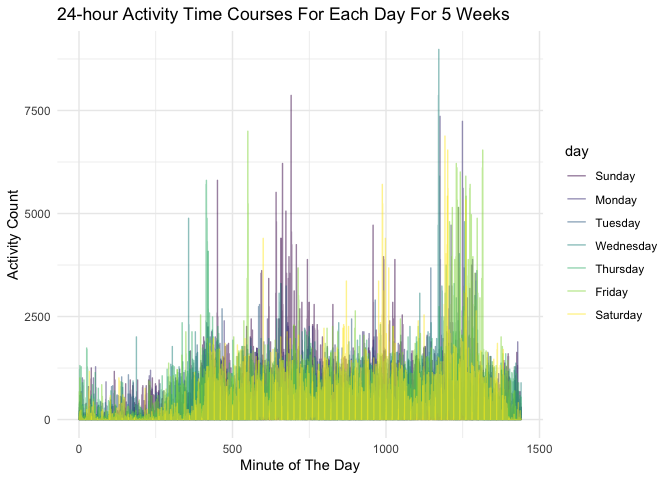
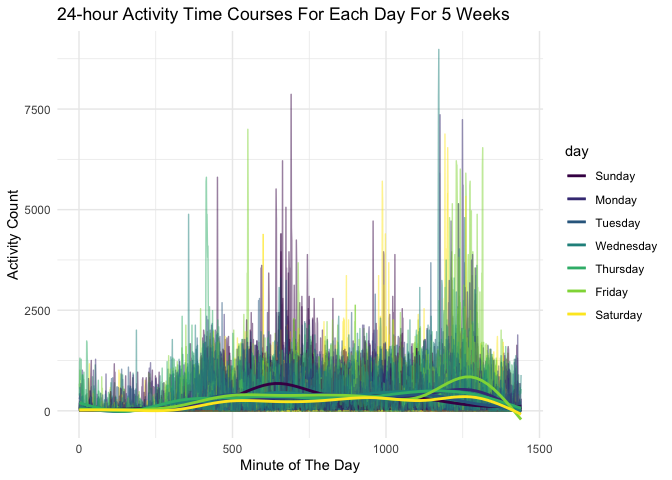
Final version of HW3.

diff --git a/p8105_hw3_yc4018.md b/p8105_hw3_yc4018.md
@@ -20,7 +20,8 @@ scale_colour_discrete = scale_colour_viridis_d
 scale_fill_discrete = scale_fill_viridis_d
 ```
 
-**Problem 1** load the `instacart` data.
+**Problem 1**  
+load the `instacart` data.
 
 ``` r
 data("instacart")
@@ -52,7 +53,7 @@ knitr::kable(aisle_obs[0:10,])
 | soy lactosefree               |  26240 |
 | bread                         |  23635 |
 
--   There are 134in the dataset. Since 150609 is the largest
+-   There are 134 aisles in the dataset. Since 150609 is the largest
     observations of aisle, fresh vegetables is the aisle that the most
     items ordered from.
 
@@ -74,6 +75,10 @@ aisle_obs %>%
 ```
 
 ![](p8105_hw3_yc4018_files/figure-gfm/unnamed-chunk-4-1.png)<!-- -->
+
+-   Based on the above scatter plot, we can see that butter is the aisle
+    that has the lowest number of items ordered, and fresh vegetables is
+    the aisle that the most items ordered from.
 
 3.  Below table shows the 3 most popular products in each of the aisles
     of “baking ingredients”, “dog food care”, and “packaged vegetables
@@ -104,6 +109,15 @@ instacart %>%
 | packaged vegetables fruits | Organic Raspberries                           |     5546 |             2 |
 | packaged vegetables fruits | Organic Blueberries                           |     4966 |             3 |
 
+-   Based on the table, we can see that for the aisle of “baking
+    ingredients”, the 3 most popular products are Light Brown Sugar,
+    Pure Baking Soda, and Cane Sugar. For the aisle of “dog food care”,
+    the 3 most popular products are Snack Sticks Chicken & Rice Recipe
+    Dog Treats, Organix Chicken & Brown Rice Recipe, and Small Dog
+    Biscuits. And for the aisle of “packaged vegetables fruits”, the 3
+    most popular products are Organic Baby Spinach, Organic Raspberries,
+    and Organic Blueberries
+
 4.  Below table shows the mean hour of the day at which Pink Lady Apples
     and Coffee Ice Cream are ordered on each day of the week.
 
@@ -112,37 +126,40 @@ instacart %>%
   filter(product_name %in% c("Pink Lady Apples", "Coffee Ice Cream")) %>% 
   group_by(product_name, order_dow) %>% 
   summarize(mean_hour = mean(order_hour_of_day, na.rm = TRUE)) %>% 
+  mutate(
+    order_dow = lubridate::wday(order_dow + 1, label = TRUE, abbr = FALSE)) %>% 
   pivot_wider(
     names_from = "order_dow",
     values_from = "mean_hour"
   ) %>% 
-  knitr::kable()
+  knitr::kable(digits = 2)
 ```
 
-| product\_name    |        0 |        1 |        2 |        3 |        4 |        5 |        6 |
-|:-----------------|---------:|---------:|---------:|---------:|---------:|---------:|---------:|
-| Coffee Ice Cream | 13.77419 | 14.31579 | 15.38095 | 15.31818 | 15.21739 | 12.26316 | 13.83333 |
-| Pink Lady Apples | 13.44118 | 11.36000 | 11.70213 | 14.25000 | 11.55172 | 12.78431 | 11.93750 |
+| product\_name    | Sunday | Monday | Tuesday | Wednesday | Thursday | Friday | Saturday |
+|:-----------------|-------:|-------:|--------:|----------:|---------:|-------:|---------:|
+| Coffee Ice Cream |  13.77 |  14.32 |   15.38 |     15.32 |    15.22 |  12.26 |    13.83 |
+| Pink Lady Apples |  13.44 |  11.36 |   11.70 |     14.25 |    11.55 |  12.78 |    11.94 |
 
-5.  **Dataset Interpretation: ** write a short description of the
-    dataset, noting the size and structure of the data, describing some
-    key variables, and giving illstrative examples of observations.
+5.  Dataset Interpretation:
 
--   The instacart dataset contains 1384617 observations of 15 variables
+-   The instacart dataset contains 1384617 observations of 15 variables,
     and each row in the dataset is a product from an order, which helps
     to examine the trends in online grocery purchasing. The size of this
     dataset is (1384617, 15). I think the key variables are `aisle`;
-    `department`; `product_name`; `add_to_cart_order`, which represents
-    the order in which each product was added to cart; `reordered`,
-    which shows if this product has been ordered by this user in the
-    past; `order_dow`, which shows the day of the week on which the
-    order was placed; `order_hour_of_day`,which represents the hour of
-    the day on which the order was placed; and `days_since_prior_order`,
-    which indicates the days since the last order.
+    `department`; `product_name`; `user_id`; `add_to_cart_order`, which
+    represents the order in which each product was added to cart;
+    `reordered`, which shows if this product has been ordered by this
+    user in the past; `order_dow`, which shows the day of the week on
+    which the order was placed; `order_hour_of_day`, which represents
+    the hour of the day on which the order was placed; and
+    `days_since_prior_order`, which indicates the days since the last
+    order. For example, the customer with a user id of 112108 ordered
+    Bulgarian Yogurt 9 days after he/she prior order.
 
 ------------------------------------------------------------------------
 
-**Problem 2** load, clean, and tidy the BRFSS data.
+**Problem 2**  
+load, clean, and tidy the BRFSS data.
 
 ``` r
 data("brfss_smart2010")
@@ -155,7 +172,16 @@ brfss_df =
   select(-locationabbr) %>% 
   filter(response %in% c("Excellent", "Very good", "Good", "Fair", "Poor")) %>%
   mutate(response = factor(response, levels = c("Poor", "Fair", "Good", "Very good", "Excellent")))
+
+knitr::kable(brfss_df[0:4,])
 ```
+
+| year | state | location         | class         | topic          | question                    | response  | sample\_size | data\_value | confidence\_limit\_low | confidence\_limit\_high | display\_order | data\_value\_unit | data\_value\_type | data\_value\_footnote\_symbol | data\_value\_footnote | data\_source | class\_id | topic\_id | location\_id | question\_id | respid  | geo\_location           |
+|-----:|:------|:-----------------|:--------------|:---------------|:----------------------------|:----------|-------------:|------------:|-----------------------:|------------------------:|---------------:|:------------------|:------------------|:------------------------------|:----------------------|:-------------|:----------|:----------|:-------------|:-------------|:--------|:------------------------|
+| 2010 | AL    | Jefferson County | Health Status | Overall Health | How is your general health? | Excellent |           94 |        18.9 |                   14.1 |                    23.6 |              1 | %                 | Crude Prevalence  | NA                            | NA                    | BRFSS        | CLASS08   | Topic41   | NA           | GENHLTH      | RESP056 | (33.518601, -86.814688) |
+| 2010 | AL    | Jefferson County | Health Status | Overall Health | How is your general health? | Very good |          148 |        30.0 |                   24.9 |                    35.0 |              2 | %                 | Crude Prevalence  | NA                            | NA                    | BRFSS        | CLASS08   | Topic41   | NA           | GENHLTH      | RESP057 | (33.518601, -86.814688) |
+| 2010 | AL    | Jefferson County | Health Status | Overall Health | How is your general health? | Good      |          208 |        33.1 |                   28.2 |                    38.0 |              3 | %                 | Crude Prevalence  | NA                            | NA                    | BRFSS        | CLASS08   | Topic41   | NA           | GENHLTH      | RESP058 | (33.518601, -86.814688) |
+| 2010 | AL    | Jefferson County | Health Status | Overall Health | How is your general health? | Fair      |          107 |        12.5 |                    9.5 |                    15.4 |              4 | %                 | Crude Prevalence  | NA                            | NA                    | BRFSS        | CLASS08   | Topic41   | NA           | GENHLTH      | RESP059 | (33.518601, -86.814688) |
 
 1.  In 2002, which states were observed at 7 or more locations? What
     about in 2010?
@@ -280,16 +306,24 @@ brfss_df %>%
   ) 
 ```
 
-![](p8105_hw3_yc4018_files/figure-gfm/unnamed-chunk-11-1.png)<!-- --> -
-\*\*interpretation!
+![](p8105_hw3_yc4018_files/figure-gfm/unnamed-chunk-11-1.png)<!-- -->
 
-wide range 4. **Dataset Interpretation:** - After loading, cleaning, and
-tidying the BRFSS data, I have a resulting dataset named `brfss_df`
-dataset. The `brfss_df` dataset is from the Behavioral Risk Factors
-Surveillance System for Selected Metropolitan Area Risk Trends (SMART)
-for 2002-2010, which contains 10625 observations of 23 variables. The
-dimension of this dataset is (10625, 23). I think the key variables are:
-year, state, location, class, topic, question, and response.
+-   Based on the above boxplot, we can see that in both 2006 and 2010,
+    the majority level of response from people in NY State are “Good”
+    and “Very good”, and only a few people’s responses are at the level
+    of “Poor”. From 2006 to 2010, the mean or the range of data value in
+    each level of response has increased, for example, more people in NY
+    State respond to the question at the level of “Very good”.
+
+4.  Dataset Interpretation:
+
+-   After loading, cleaning, and tidying the BRFSS data, I have a
+    resulting dataset named `brfss_df` dataset. The `brfss_df` dataset
+    is from the Behavioral Risk Factors Surveillance System for Selected
+    Metropolitan Area Risk Trends (SMART) for 2002-2010, which contains
+    10625 observations of 23 variables. The dimension of this dataset is
+    (10625, 23). I think the key variables are: year, state, location,
+    class, topic, question, and response.
 
 ------------------------------------------------------------------------
 
@@ -316,18 +350,27 @@ accel_df =
     day = factor(day, levels = c("Sunday", "Monday", "Tuesday", "Wednesday", "Thursday", "Friday", "Saturday")),
     ) %>% 
   relocate(week, day_id, day, type_of_day)
+
+knitr::kable(accel_df[0:4,])
 ```
+
+| week | day\_id | day    | type\_of\_day | minute\_in\_a\_day | activity\_count |
+|-----:|--------:|:-------|:--------------|-------------------:|----------------:|
+|    1 |       1 | Friday | weekday       |                  1 |        88.37778 |
+|    1 |       1 | Friday | weekday       |                  2 |        82.24444 |
+|    1 |       1 | Friday | weekday       |                  3 |        64.44444 |
+|    1 |       1 | Friday | weekday       |                  4 |        70.04444 |
 
 -   After loading, cleaning, and tidying the accelerometer data, I have
     a resulting dataset named `accel_df` dataset. The `accel_df` dataset
-    is a five weeks of accelerometer data collected on a 63 year-old
-    male with BMI 25, who was admitted to the Advanced Cardiac Care
+    is a collected accelerometer data from a 63-year-old male with BMI
+    25 for five weeks, who was admitted to the Advanced Cardiac Care
     Center of Columbia University Medical Center and diagnosed with
     congestive heart failure (CHF). This dataset contains 50400
     observations with 6 variables. The dimension of this dataset is
     (50400, 6). The variables included in this dataset are `week`,
     `day_id`, `day`, `minute_in_a_day`, `activity_count`, and
-    `type_of_day`. The variable `week` shows the number of week;
+    `type_of_day`. The variable `week` shows the number of the week;
     variable `day_id` indicates the unique number of each day; variable
     `day` indicates the day of the week; variable `minute_in_a_day`
     indicates the number of minute of a 24-hour day starting at
@@ -344,11 +387,6 @@ total_activity_df =
   summarize(
     total_activity_count = sum(activity_count)
   ) 
-```
-
-    ## `summarise()` has grouped output by 'week', 'day_id'. You can override using the `.groups` argument.
-
-``` r
 knitr::kable(total_activity_df)
 ```
 
@@ -422,28 +460,28 @@ gg_dayid_activity =
 ![](p8105_hw3_yc4018_files/figure-gfm/unnamed-chunk-13-1.png)<!-- -->
 
 -   Since traditional analyses of accelerometer data focus on the total
-    activity over the day, I drew two plots above. The left plot simply
-    shows the distribution of total activity count in each day; and on
-    the right plot, I grouped the day by week, and the plot shows the
-    distribution of total activity count in each day based on week for 5
-    weeks.
--   Based on two plots above, the total activity count fluctuates and
-    oscillates up and down, but roughly spread around 3.5\*10^5 counts
-    for each day. In first 2 weeks, total activity count on Monday is
-    lower than that on Friday; but in the rest of three weeks, total
-    activity count on Monday has larger value than on Friday. The total
-    activity count always increasing from Tuesday to Wednesday. Saturday
-    has high total activity count for first three weeks, but become 0 on
-    the last two weeks.
+    activity over the day, I drew two plots above. The left graph simply
+    shows the distribution of the total activity count in each day. On
+    the right graph I grouped the day by week, and the plot shows the
+    distribution of total activity count in each day based on the week
+    for 5 weeks.
+-   Based on the two plots above, the total activity count fluctuates
+    and oscillates up and down, but roughly spread around 3.5\*10^5
+    counts for each day. In the first 2 weeks, the total activity count
+    on Monday is lower than that on Friday; but in the rest of three
+    weeks, the total activity count on Monday has a larger value than on
+    Friday. The total activity count always increases from Tuesday to
+    Wednesday. Saturday has a high total activity count for the first
+    three weeks but becomes 0 in the last two weeks.
 
 3.  Below is a single-panel plot that shows the 24-hour activity time
     courses for each day for 5 weeks.
 
 ``` r
 accel_df %>% 
-  group_by(minute_in_a_day, day_id) %>% 
-  ggplot(aes(x = minute_in_a_day, y = activity_count, color = day)) +
+  ggplot(aes(x = minute_in_a_day, y = activity_count, group = day_id, color = day)) +
   geom_line(alpha = .5) +
+  geom_smooth(se = FALSE, aes(group = day)) +
   labs(
     title = "24-hour Activity Time Courses For Each Day For 5 Weeks",
     x = "Minute of The Day",
@@ -456,11 +494,11 @@ accel_df %>%
 -   Since accelerometer data allows the inspection activity over the
     course of the day. Based on the above plot of 24-hour activity time
     courses for each day for 5 weeks, we can see that the activity
-    counts are small on the early morning; around the 250 minute of the
+    counts are small in the early morning; around the 250 minutes of the
     day, the activity counts start increasing to around 2400 and stay
-    for the rest of the day; on the evening, activity count has a
-    rapidly growth which is starting from the 1200 minute of the day,
-    then becomes decreasing at around 1300 minute of the day. Saturday
-    has the high activity count on the early morning. During the week,
-    the activity count has the highest value at the evening of the most
-    of the days.
+    for the rest of the day; on the evening, activity count has a rapid
+    growth which is starting from the 1200 minute of the day, then
+    becomes decreasing at around 1300 minute of the day. Saturday has a
+    high activity count in the early morning. During the week, the
+    activity count has the highest value in the evening of most of the
+    days.
